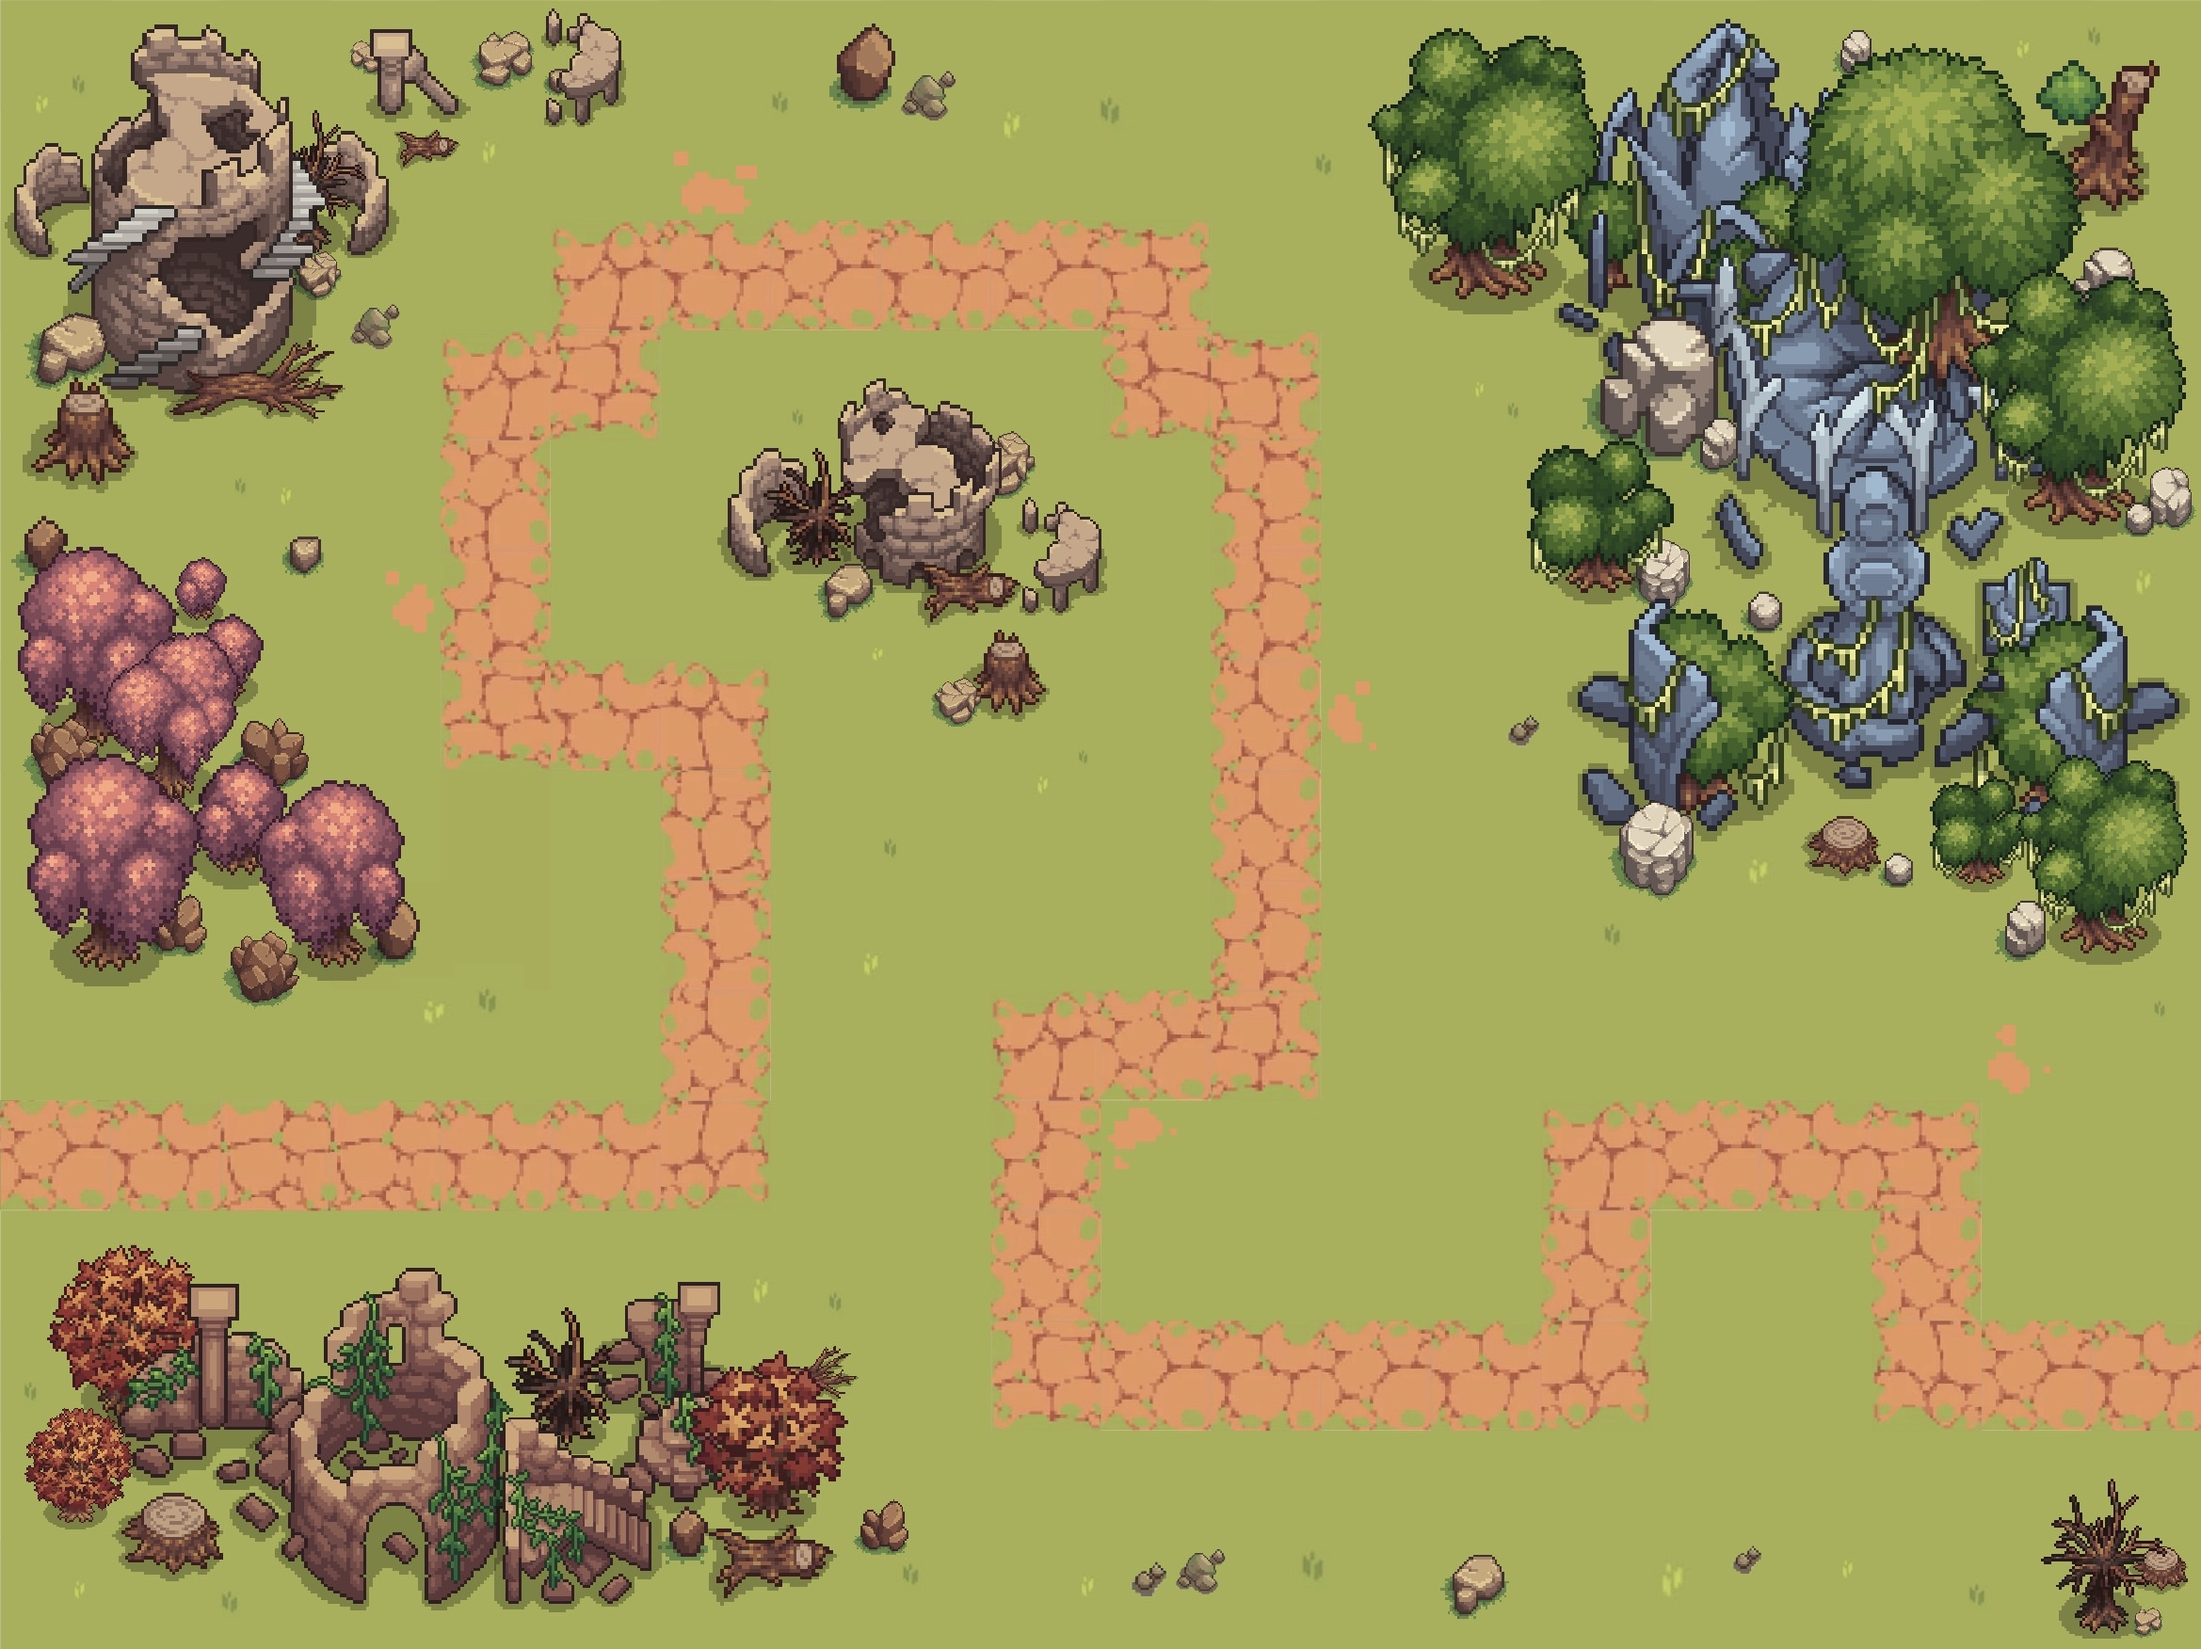
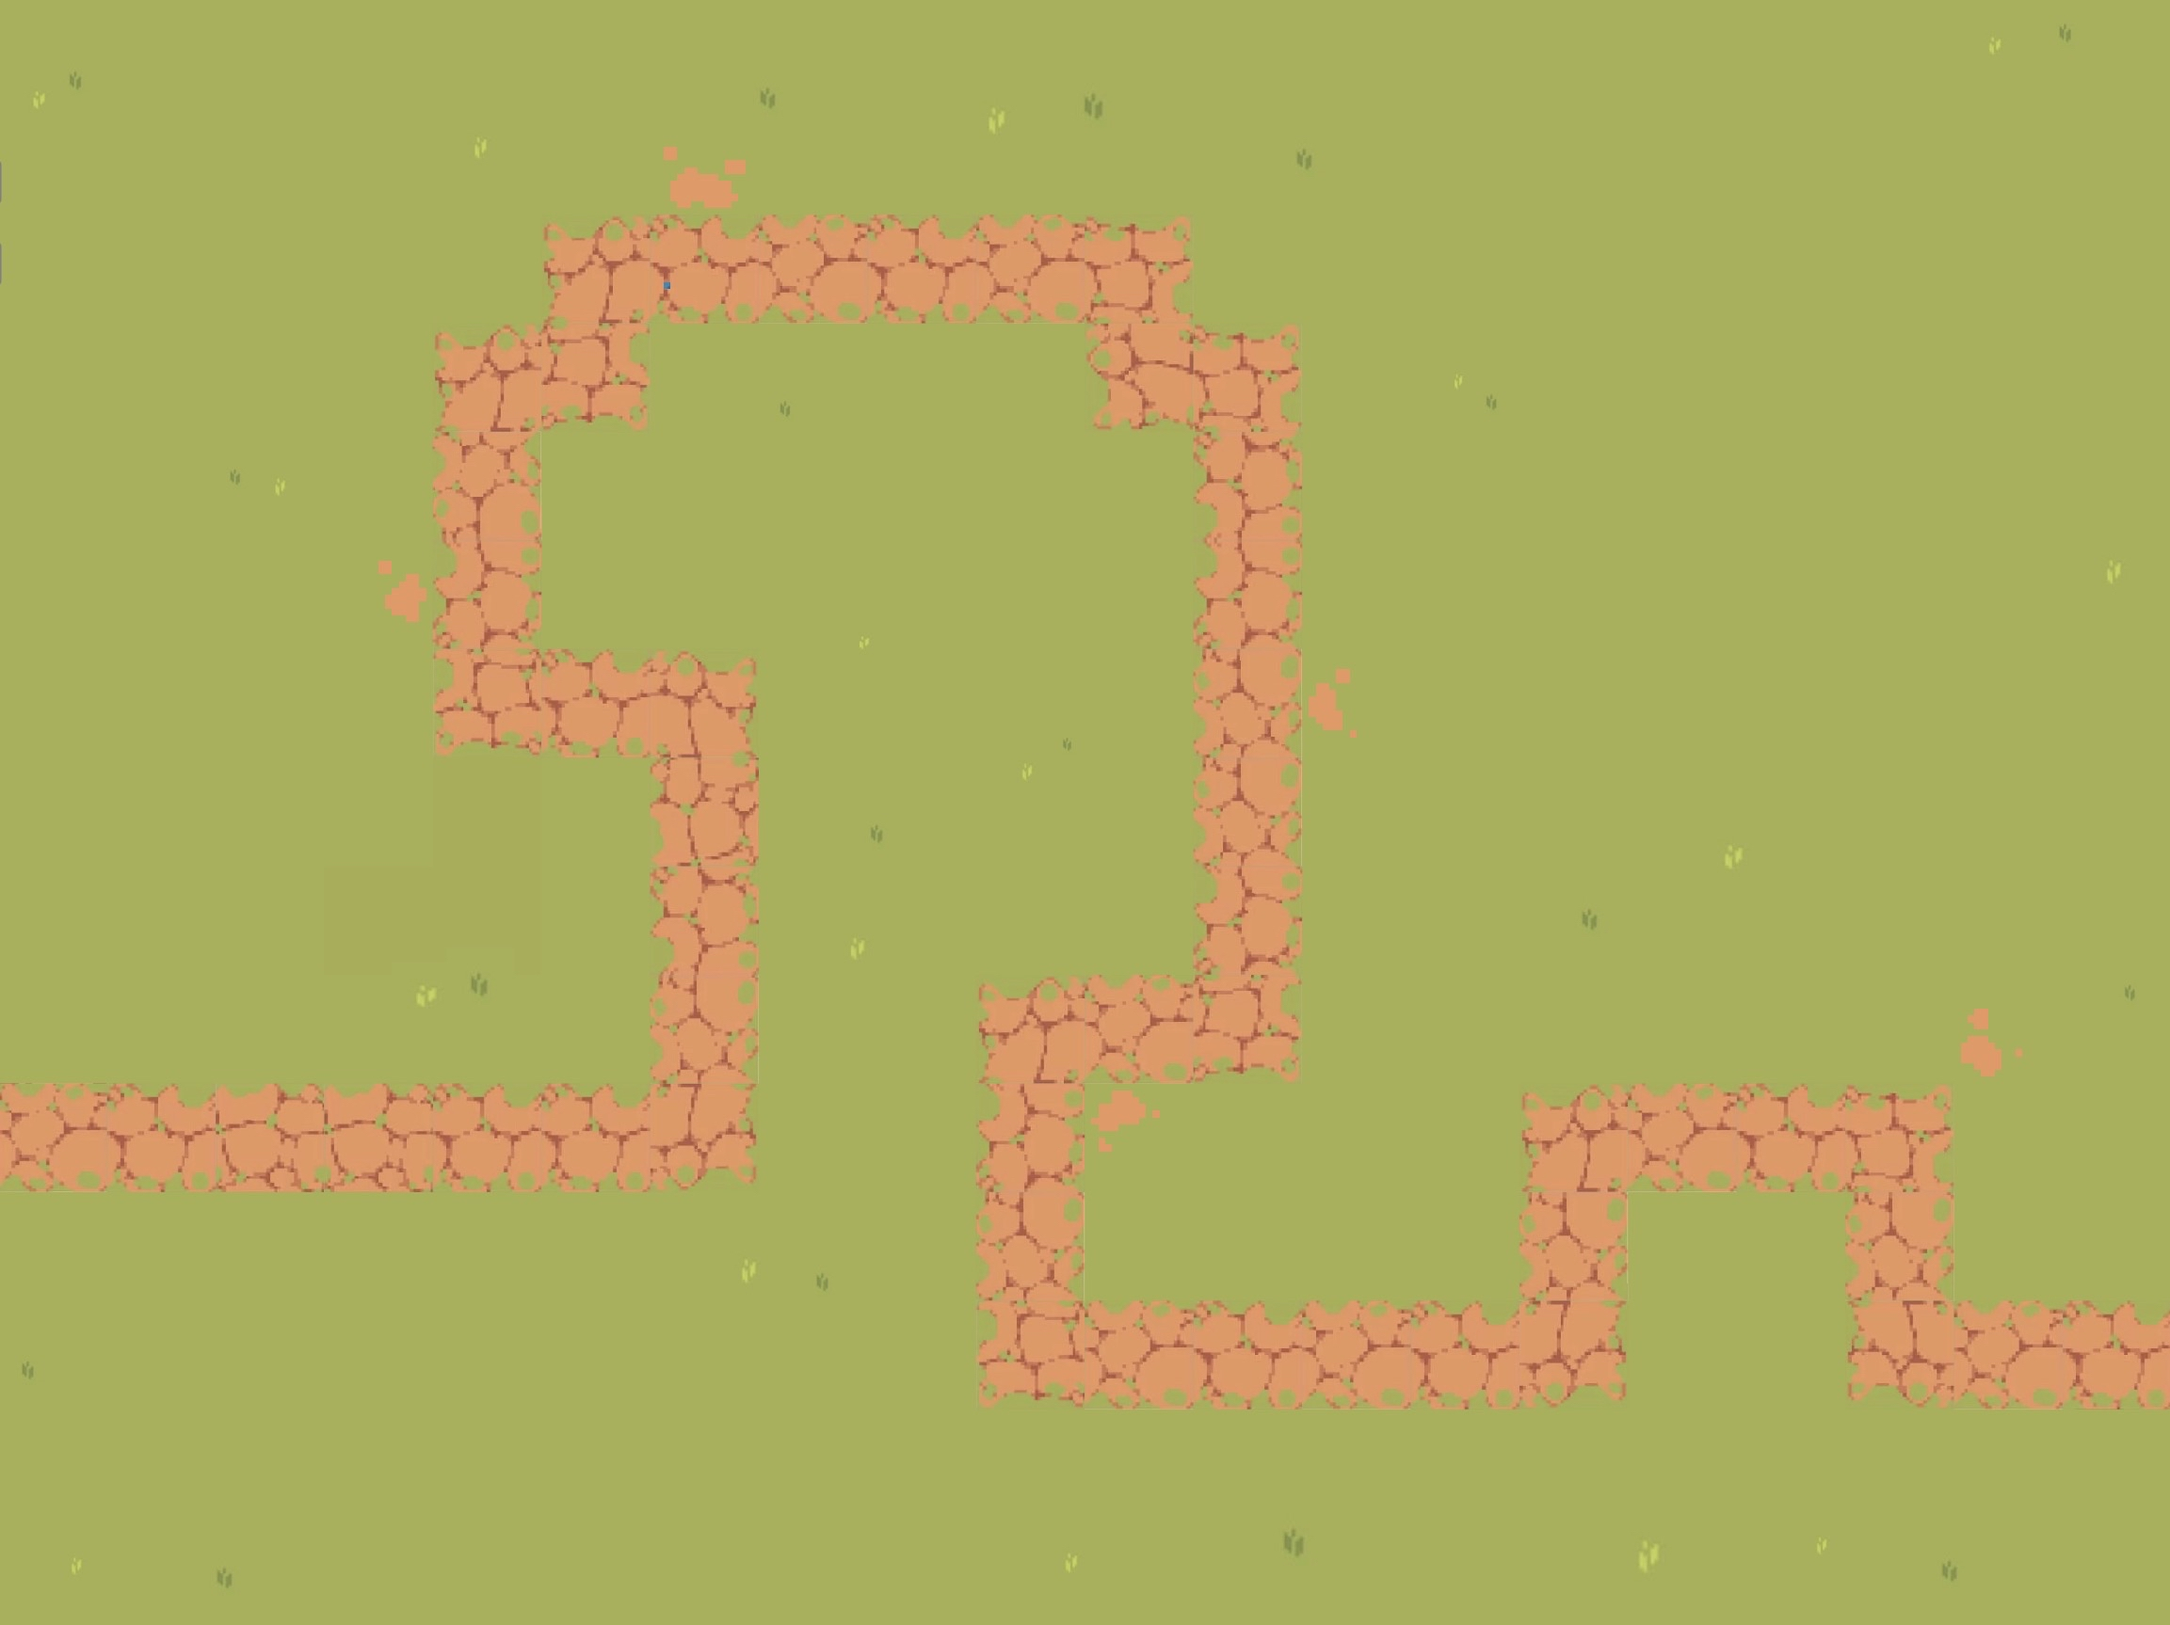
New Map asset

diff --git a/GameController/GameFrame.java b/GameController/GameFrame.java
@@ -3,12 +3,18 @@ package GameController;
 import UI.PauseMenu.PauseUI;
 import UI.StatusUI;
 import UI.TowerUI;
+import asset.Asset;
+import java.awt.Graphics;
+import java.awt.Graphics2D;
+import java.awt.RenderingHints;
 import java.awt.event.*;
 import javax.swing.*;
+
 
 public class GameFrame extends JFrame {
 
     public GameFrame() {
+        Asset.load();
         setTitle("Tower Defense");
         setDefaultCloseOperation(JFrame.EXIT_ON_CLOSE);
         setResizable(false);
@@ -27,15 +33,46 @@ public class GameFrame extends JFrame {
         int width = game.getPreferredSize().width;
         int height = game.getPreferredSize().height;
 
+        // ต้องสร้าง gameMap ก่อน และ set bounds ด้วย
+        JPanel gameMap = new JPanel() {
+            @Override
+            protected void paintComponent(Graphics g) {
+                super.paintComponent(g);
+                Graphics2D g2 = (Graphics2D) g;
+
+                g2.setRenderingHint(RenderingHints.KEY_INTERPOLATION,
+                        RenderingHints.VALUE_INTERPOLATION_BILINEAR);
+
+                if (Asset.MainMenuPic == null) return; // เปลี่ยนเป็น Asset ที่มีรูป map จริงๆ
+
+                int imgW = Asset.MainMenuPic.getWidth();
+                int imgH = Asset.MainMenuPic.getHeight();
+                int panelW = getWidth();
+                int panelH = getHeight();
+
+                double scale = Math.max((double) panelW / imgW, (double) panelH / imgH);
+                int drawW = (int) (imgW * scale);
+                int drawH = (int) (imgH * scale);
+                int x = (panelW - drawW) / 2;
+                int y = (panelH - drawH) / 2;
+
+                g2.drawImage(Asset.MainMenuPic, x, y, drawW, drawH, null);
+                System.out.println(Asset.Map);
+            }
+        };
+
+        gameMap.setOpaque(true);
+        gameMap.setBounds(0, 0, width, height); // ต้อง set bounds ด้วย
         game.setBounds(0, 0, width, height);
         towerUi.setBounds(0, 0, width, height);
         statusUI.setBounds(0, 0, width, height);
         pauseUI.setBounds(0, 0, width, height);
 
-        layer.add(game, Integer.valueOf(0));
-        layer.add(towerUi, Integer.valueOf(1));
-        layer.add(statusUI, Integer.valueOf(2));
-        layer.add(pauseUI, Integer.valueOf(3));
+        layer.add(gameMap, Integer.valueOf(0)); // layer ต่ำสุด = background
+        layer.add(game, Integer.valueOf(1));
+        layer.add(towerUi, Integer.valueOf(2));
+        layer.add(statusUI, Integer.valueOf(3));
+        layer.add(pauseUI, Integer.valueOf(4));
 
         InputController input = new InputController(game, towerUi, pauseUI);
         layer.addMouseListener(input);
@@ -43,7 +80,6 @@ public class GameFrame extends JFrame {
 
         add(layer);
         pack();
-
         setLocationRelativeTo(null);
         setVisible(true);
     }

diff --git a/GameController/GamePanel.java b/GameController/GamePanel.java
@@ -667,26 +667,44 @@ public class GamePanel extends JPanel {
     }
 
     private void drawMap(Graphics g) {
-        for (int row = 0; row < MapData.MAP.length; row++) {
-            for (int col = 0; col < MapData.MAP[0].length; col++) {
+        if (Asset.Map == null) return;
 
-                BufferedImage img =
-                        (MapData.MAP[row][col] == 1 ||
-                        MapData.MAP[row][col] == 2 ||
-                        MapData.MAP[row][col] == 3)
-                        ? Asset.DIRT
-                        : Asset.GRASS;
+        int imgW = Asset.Map.getWidth();
+        int imgH = Asset.Map.getHeight();
+        int panelW = getWidth();
+        int panelH = getHeight();
 
-                g.drawImage(
-                        img,
-                        col * MapData.TILE_SIZE,
-                        row * MapData.TILE_SIZE,
-                        MapData.TILE_SIZE,
-                        MapData.TILE_SIZE,
-                        null
-                );
-            }
-        }
+        double scale = Math.max((double) panelW / imgW, (double) panelH / imgH);
+
+        int drawW = (int) (imgW * scale);
+        int drawH = (int) (imgH * scale);
+        int x = (panelW - drawW) / 2;
+        int y = (panelH - drawH) / 2;
+
+        Graphics2D g2 = (Graphics2D) g;
+        g2.setRenderingHint(RenderingHints.KEY_INTERPOLATION,
+                RenderingHints.VALUE_INTERPOLATION_BILINEAR);
+        g2.drawImage(Asset.Map, x, y, drawW, drawH, null);
+        // for (int row = 0; row < MapData.MAP.length; row++) {
+        //     for (int col = 0; col < MapData.MAP[0].length; col++) {
+
+        //         BufferedImage img =
+        //                 (MapData.MAP[row][col] == 1 ||
+        //                 MapData.MAP[row][col] == 2 ||
+        //                 MapData.MAP[row][col] == 3)
+        //                 ? Asset.DIRT
+        //                 : Asset.GRASS;
+
+        //         g.drawImage(
+        //                 img,
+        //                 col * MapData.TILE_SIZE,
+        //                 row * MapData.TILE_SIZE,
+        //                 MapData.TILE_SIZE,
+        //                 MapData.TILE_SIZE,
+        //                 null
+        //         );
+        //     }
+        // }
     }
 
     private void GhostPreview(Graphics g) {
@@ -736,6 +754,8 @@ public class GamePanel extends JPanel {
         if (window instanceof JFrame) {
             ((JFrame) window).dispose();
         }
+
+        enemies = null;
 
     }
 
